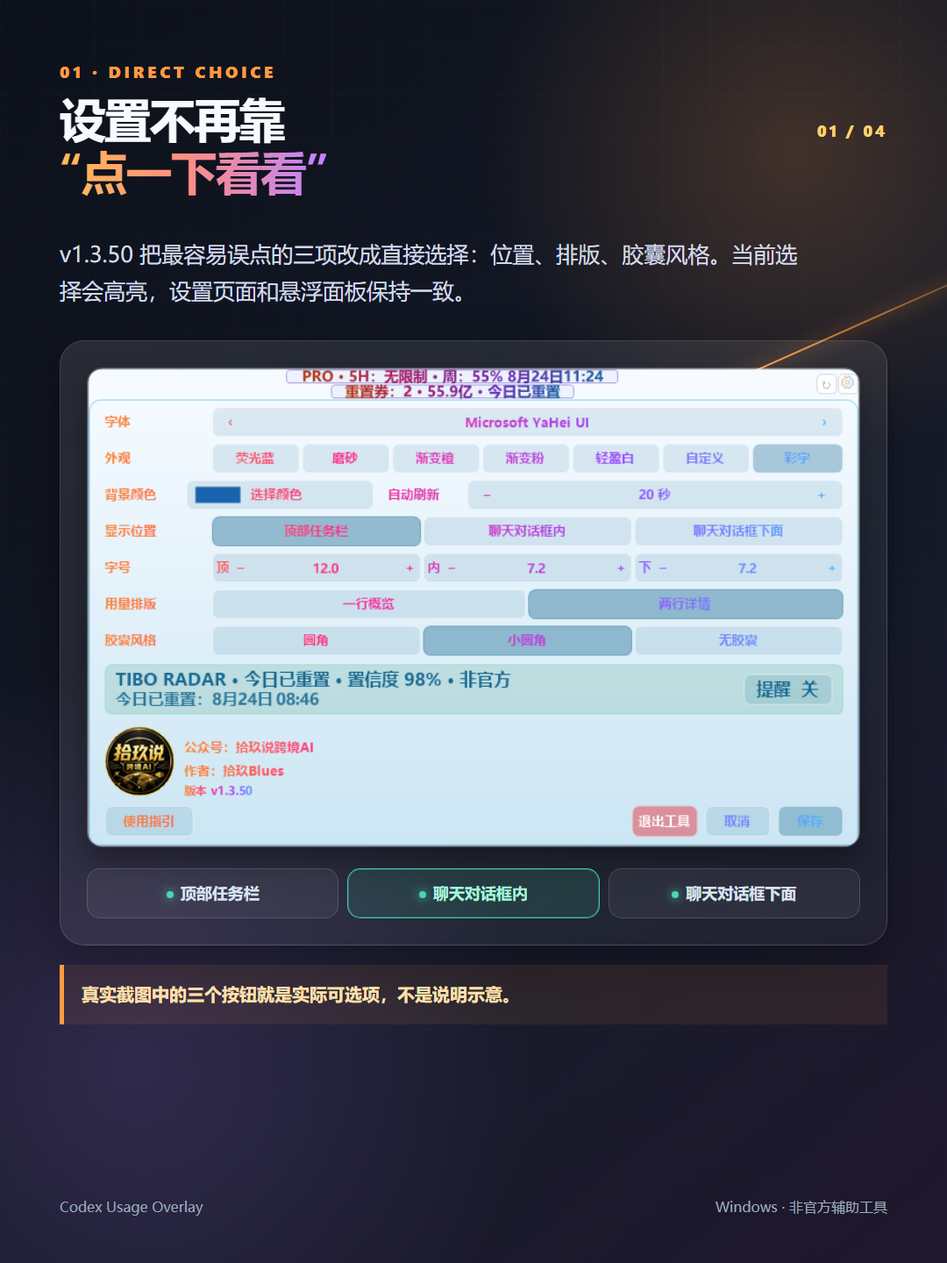
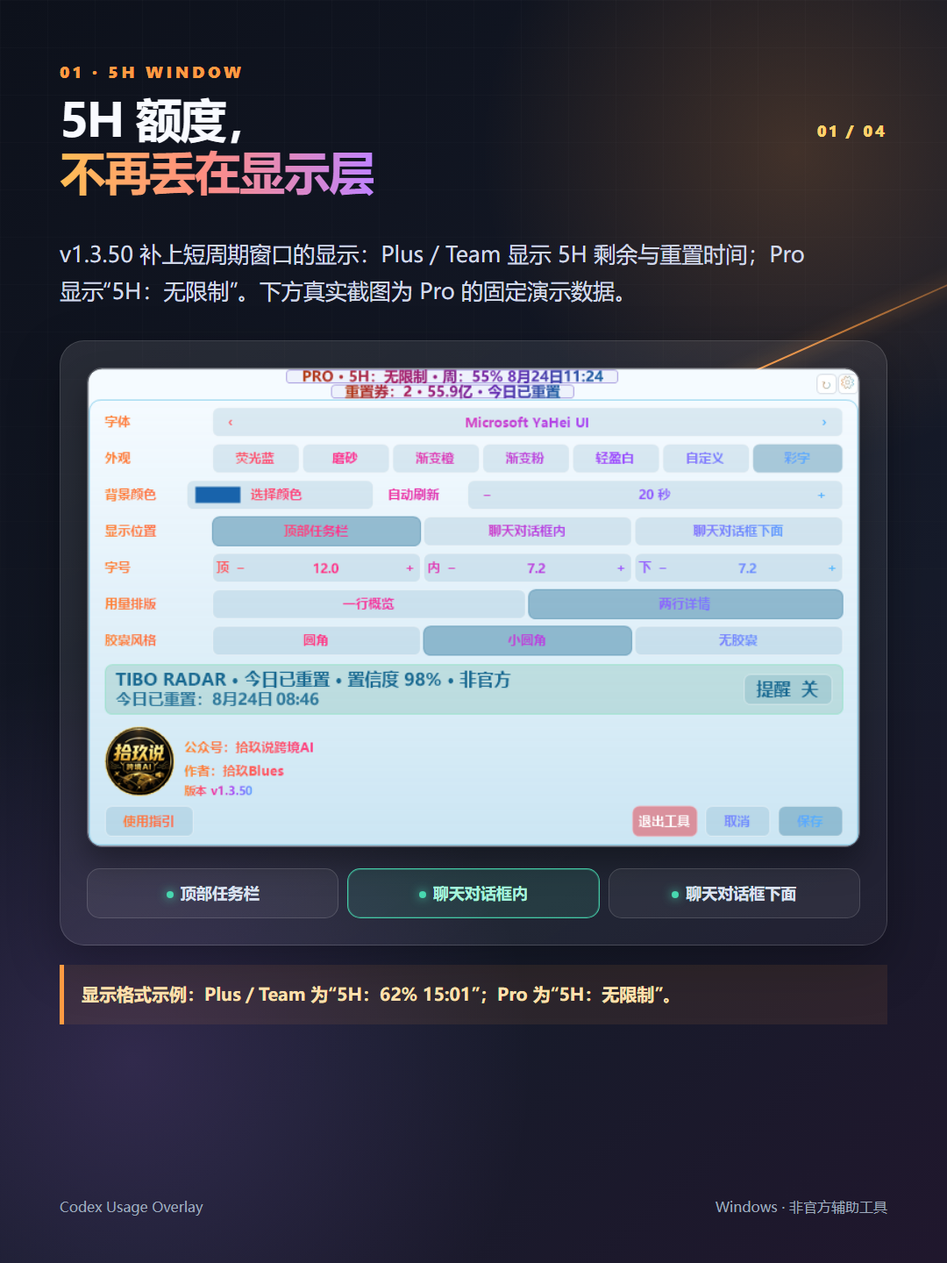
docs: focus v1.3.50 publishing on 5h quota

Changed region(s): [[0.0611, 0.1875, 0.8556, 0.25], [0.0611, 0.0312, 0.3972, 0.1562], [0.0917, 0.7812, 0.7028, 0.8125]]

diff --git a/docs/publishing/assets-src/v1.3.50-cards.html b/docs/publishing/assets-src/v1.3.50-cards.html
@@ -83,31 +83,31 @@
 </head>
 <body>
 <article class="board wide hide" data-card="wechat-cover">
-  <section class="copy"><div class="brand">拾玖说跨境AI</div><div class="kicker">CODEX USAGE OVERLAY · v1.3.50</div><h1>三处设置，<br><span class="gradient">现在直接选</span></h1><p class="sub">显示位置 · 用量排版 · 胶囊风格<br>少一次试错，少一次来回找设置。</p><div class="chip-row"><span class="chip hot">Windows</span><span class="chip">开源</span><span class="chip">真实界面截图</span></div></section>
+  <section class="copy"><div class="brand">拾玖说跨境AI</div><div class="kicker">CODEX USAGE OVERLAY · v1.3.50</div><h1>5H 额度，<br><span class="gradient">终于显示出来</span></h1><p class="sub">Plus／Team 显示剩余与重置时间<br>Pro 明确显示“5H：无限制”。</p><div class="chip-row"><span class="chip hot">Windows</span><span class="chip">设置优化</span><span class="chip">真实界面截图</span></div></section>
   <section class="scene glass"><img class="shot real-shot" src="../../images/themes/rainbow-text-expanded.png" alt="v1.3.50 设置界面真实截图"><p class="caption">当前程序导出 · 固定演示数据</p></section>
 </article>
 
 <article class="board square hide" data-card="wechat-square">
-  <div class="eyeline"><div class="brand">拾玖说跨境AI</div><span class="page">WINDOWS · v1.3.50</span></div><section class="copy"><div class="kicker">CODEX USAGE OVERLAY</div><h1>把 Codex 悬浮条的<br><span class="gradient">三处设置重做了</span></h1><p class="muted" style="margin-top:22px;font-size:25px">看见选项，直接点选，不再靠循环切换猜位置。</p></section><section class="scene glass"><img class="shot real-shot" src="../../images/themes/rainbow-text-expanded.png" alt="v1.3.50 设置界面真实截图"><p class="caption">显示位置、用量排版、胶囊风格已改为并列直选</p></section>
+  <div class="eyeline"><div class="brand">拾玖说跨境AI</div><span class="page">WINDOWS · v1.3.50</span></div><section class="copy"><div class="kicker">CODEX USAGE OVERLAY</div><h1>5H 额度显示<br><span class="gradient">终于补上了</span></h1><p class="muted" style="margin-top:22px;font-size:25px">Plus／Team 显示短周期窗口；Pro 显示“5H：无限制”。</p></section><section class="scene glass"><img class="shot real-shot" src="../../images/themes/rainbow-text-expanded.png" alt="v1.3.50 设置界面真实截图"><p class="caption">真实程序界面 · 设置同步改为并列直选</p></section>
 </article>
 
 <article class="board portrait hide" data-card="slide-01">
-  <div class="eyeline"><div><div class="kicker">01 · DIRECT CHOICE</div><h2 style="margin-top:15px">设置不再靠<br><span class="gradient">“点一下看看”</span></h2></div><span class="page">01 / 04</span></div>
-  <section class="hero-copy"><p class="lead">v1.3.50 把最容易误点的三项改成直接选择：位置、排版、胶囊风格。当前选择会高亮，设置页面和悬浮面板保持一致。</p></section>
+  <div class="eyeline"><div><div class="kicker">01 · 5H WINDOW</div><h2 style="margin-top:15px">5H 额度，<br><span class="gradient">不再丢在显示层</span></h2></div><span class="page">01 / 04</span></div>
+  <section class="hero-copy"><p class="lead">v1.3.50 补上短周期窗口的显示：Plus／Team 显示 5H 剩余与重置时间；Pro 显示“5H：无限制”。下方真实截图为 Pro 的固定演示数据。</p></section>
   <section class="hero-shot glass"><img class="shot real-shot" src="../../images/themes/rainbow-text-expanded.png" alt="v1.3.50 设置界面真实截图"><div class="position-rail"><div class="position"><span class="dot"></span>顶部任务栏</div><div class="position active"><span class="dot"></span>聊天对话框内</div><div class="position"><span class="dot"></span>聊天对话框下面</div></div></section>
-  <div class="callout">真实截图中的三个按钮就是实际可选项，不是说明示意。</div><div class="footer"><span>Codex Usage Overlay</span><span>Windows · 非官方辅助工具</span></div>
+  <div class="callout">显示格式示例：Plus／Team 为“5H：62% 15:01”；Pro 为“5H：无限制”。</div><div class="footer"><span>Codex Usage Overlay</span><span>Windows · 非官方辅助工具</span></div>
 </article>
 
 <article class="board portrait hide" data-card="slide-02">
-  <div class="eyeline"><div><div class="kicker">02 · READ AT A GLANCE</div><h2 style="margin-top:15px">一行概览，<br>两行也能看得清</h2></div><span class="page">02 / 04</span></div>
+  <div class="eyeline"><div><div class="kicker">02 · QUOTA + SETTINGS</div><h2 style="margin-top:15px">5H、周额度，<br>信息不再挤丢</h2></div><span class="page">02 / 04</span></div>
   <section class="layout-stage glass"><img class="shot real-shot" src="../../images/themes/rainbow-text-expanded.png" alt="设置界面中用量排版直选按钮"></section>
-  <section class="compare"><div class="compare-card"><b>一行概览</b><p>适合顶部任务栏：把套餐、5H／周额度、重置券、累计 Token 和雷达信号收在同一条内。</p></div><div class="compare-card"><b>两行详情</b><p>适合对话框内：空间有限时拆成两行，让 5H 与周额度仍能一眼对应。</p></div></section>
+  <section class="compare"><div class="compare-card"><b>Plus／Team</b><p>5H 剩余比例和重置时间与周额度分开显示，短周期窗口不再被最后一层文案丢掉。</p></div><div class="compare-card"><b>Pro</b><p>5H 固定显示“无限制”，不把无关的短周期重置时间混到 Pro 的主条里。</p></div></section>
   <section class="choice-grid"><div class="choice-card"><span class="symbol">1</span><b>位置直接选</b><span>顶部、对话框内、输入框下方。</span></div><div class="choice-card"><span class="symbol">2</span><b>排版直接选</b><span>一行概览或两行详情。</span></div><div class="choice-card"><span class="symbol">3</span><b>风格直接选</b><span>圆角、小圆角或无胶囊。</span></div></section>
   <div class="footer"><span>不自动缩略关键字段</span><span>固定演示数据</span></div>
 </article>
 
 <article class="board portrait hide" data-card="slide-03">
-  <div class="eyeline"><div><div class="kicker">03 · THEME SYSTEM</div><h2 style="margin-top:15px">换主题时，<br><span class="gradient">文字也要看得清</span></h2></div><span class="page">03 / 04</span></div>
+  <div class="eyeline"><div><div class="kicker">03 · SETTINGS</div><h2 style="margin-top:15px">设置优化，<br><span class="gradient">不再靠点一下猜</span></h2></div><span class="page">03 / 04</span></div>
   <section class="theme-rows"><div class="theme-row"><b>渐变彩字</b><img class="shot real-shot" src="../../images/themes/rainbow-text-collapsed.png" alt="渐变彩字主题"></div><div class="theme-row"><b>荧光蓝</b><img class="shot real-shot" src="../../images/themes/neon-blue-collapsed.png" alt="荧光蓝主题"></div><div class="theme-row"><b>无胶囊</b><img class="shot real-shot" src="../../images/themes/title-bar-text-only.png" alt="无胶囊文字模式"></div></section>
   <section class="hero-copy"><p class="lead">本次也补了浅色标题栏下“无胶囊”模式的文字对比，让套餐、额度、刷新和设置按钮不因主题变浅而看不清。</p></section>
   <div class="callout">主题只改变显示，不改变账户额度、重置时间或本机读取的数据。</div>

diff --git a/docs/publishing/wechat-v1.3.50/preview.html b/docs/publishing/wechat-v1.3.50/preview.html
@@ -3,23 +3,27 @@
 <head>
   <meta charset="utf-8">
   <meta name="viewport" content="width=device-width, initial-scale=1">
-  <title>每次点一下才知道会切到哪里？我把 Codex 悬浮条设置改成了直接选 · 黑金研究所</title>
+  <title>Codex 悬浮条更新：补上 5 小时额度，设置也重做了 · 黑金研究所</title>
 </head>
 <body style="margin:0;background-color:#EEF1F5;color:#1F2937;">
   <main style="box-sizing:border-box;width:100%;max-width:677px;margin:0 auto;padding:18px 16px 40px;background-color:#FFFFFF;">
     <p style="margin:0 0 16px;padding:8px 10px;background-color:#F5F7FA;color:#667085;font-size:13px;line-height:1.5;">本地预览 · 黑金研究所（lab-launch）</p>
     <section style="margin:0;padding:0;font-size:16px;line-height:1.85;color:#252A34;word-break:break-word;">
-<p style="margin:7px 0;font-size:16px;line-height:1.85;color:#252A34;">写 Codex 时，最烦的有时不是功能少，而是设置要靠“点一下看看”。</p>
-<p style="margin:7px 0;font-size:16px;line-height:1.85;color:#252A34;">悬浮条到底放顶部、放对话框里，还是贴在输入框下面？一行看完还是拆成两行？圆角、小圆角、无胶囊，原来都需要来回切换才能确认结果。</p>
-<p style="margin:7px 0;font-size:16px;line-height:1.85;color:#252A34;">这次 v1.3.50，我把这三处统一改成了<strong style="font-size:17px;font-weight:700;background-color:#FFF0E6;color:#7A2E00;padding:1px 4px;border-radius:3px;">看见选项，直接点选</strong>。</p>
+<p style="margin:7px 0;font-size:16px;line-height:1.85;color:#252A34;">朋友发来截图时，问题很明确：Codex 已经返回了 5 小时额度，顶部悬浮条却只显示周额度。</p>
+<p style="margin:7px 0;font-size:16px;line-height:1.85;color:#252A34;">这不是账户没额度，也不是 API 没读到，而是最后的显示层把短周期窗口丢掉了。对于 Plus／Team 用户，最关键的 5H 剩余与重置时间恰好因此看不到。</p>
+<p style="margin:7px 0;font-size:16px;line-height:1.85;color:#252A34;">这次 v1.3.50，我把这条链路补齐：<strong style="font-size:17px;font-weight:700;background-color:#FFF0E6;color:#7A2E00;padding:1px 4px;border-radius:3px;">Plus／Team 显示 5H 剩余比例和重置时间；Pro 明确显示“5H：无限制”。</strong></p>
 <p style="margin:0;padding:18px 10px;background-color:#F5F7FA;border:1px dashed #C9CED6;border-radius:8px;color:#7a8599;text-align:center;">图1：待上传</p>
-<section data-layout-role="heading" style="margin:28px 0 10px;padding:10px 12px;font-size:21px;font-weight:700;line-height:1.45;background-color:#151515;border-left:4px solid #FF8A3D;border-radius:4px;color:#FFFFFF;">这次改的不是“多一个开关”</section>
+<section data-layout-role="heading" style="margin:28px 0 10px;padding:10px 12px;font-size:21px;font-weight:700;line-height:1.45;background-color:#151515;border-left:4px solid #FF8A3D;border-radius:4px;color:#FFFFFF;">5 小时额度，按套餐正确显示</section>
+<p style="margin:7px 0;font-size:16px;line-height:1.85;color:#252A34;"><strong style="font-size:17px;font-weight:700;background-color:#FFF0E6;color:#7A2E00;padding:1px 4px;border-radius:3px;">Plus／Team</strong>　如果本机 Codex 返回短周期窗口，主条会显示类似 <code>5H：62% 15:01</code> 的剩余比例和重置时间；周额度仍按自己的周期独立展示。</p>
+<p style="margin:7px 0;font-size:16px;line-height:1.85;color:#252A34;"><strong style="font-size:17px;font-weight:700;background-color:#FFF0E6;color:#7A2E00;padding:1px 4px;border-radius:3px;">Pro</strong>　5 小时窗口不作为限制展示，因此主条固定显示 <code>5H：无限制</code>，不会再把短周期重置时间误带进来。</p>
+<p style="margin:7px 0;font-size:16px;line-height:1.85;color:#252A34;"><strong style="font-size:17px;font-weight:700;background-color:#FFF0E6;color:#7A2E00;padding:1px 4px;border-radius:3px;">Business／其他工作区</strong>　当本机 Codex 没有返回额度窗口时，工具不会凭空补出百分比；仍以本机返回结果为准。</p>
+<section data-layout-role="heading" style="margin:28px 0 10px;padding:10px 12px;font-size:21px;font-weight:700;line-height:1.45;background-color:#151515;border-left:4px solid #FF8A3D;border-radius:4px;color:#FFFFFF;">设置也不再靠“点一下看看”</section>
 <p style="margin:7px 0;font-size:16px;line-height:1.85;color:#252A34;"><strong style="font-size:17px;font-weight:700;background-color:#FFF0E6;color:#7A2E00;padding:1px 4px;border-radius:3px;">显示位置</strong>　顶部任务栏、聊天对话框内、聊天对话框下面，三个按钮并列展示，当前选择会高亮。切换后不会覆盖到另一个位置。</p>
 <p style="margin:7px 0;font-size:16px;line-height:1.85;color:#252A34;"><strong style="font-size:17px;font-weight:700;background-color:#FFF0E6;color:#7A2E00;padding:1px 4px;border-radius:3px;">用量排版</strong>　一行概览适合顶部任务栏；两行详情适合输入框附近。需要时把 5H、周额度、重置券和累计 Token 拆开看，不需要再靠猜测切换结果。</p>
 <p style="margin:7px 0;font-size:16px;line-height:1.85;color:#252A34;"><strong style="font-size:17px;font-weight:700;background-color:#FFF0E6;color:#7A2E00;padding:1px 4px;border-radius:3px;">胶囊风格</strong>　圆角、小圆角矩形、无胶囊三个样式同样直接选择。设置面板与悬浮设置页保持相同的交互，不用记住“再点一次会切到哪里”。</p>
 <p style="margin:0;padding:18px 10px;background-color:#F5F7FA;border:1px dashed #C9CED6;border-radius:8px;color:#7a8599;text-align:center;">图2：待上传</p>
 <section data-layout-role="heading" style="margin:28px 0 10px;padding:10px 12px;font-size:21px;font-weight:700;line-height:1.45;background-color:#151515;border-left:4px solid #FF8A3D;border-radius:4px;color:#FFFFFF;">无胶囊，不等于看不清</section>
-<p style="margin:7px 0;font-size:16px;line-height:1.85;color:#252A34;">这轮也修了一个很实际的问题：在浅色标题栏里，无胶囊文字以前可能显得太淡。</p>
+<p style="margin:7px 0;font-size:16px;line-height:1.85;color:#252A34;">显示逻辑补齐后，设置体验也顺手收拾了一遍：在浅色标题栏里，无胶囊文字以前可能显得太淡。</p>
 <p style="margin:7px 0;font-size:16px;line-height:1.85;color:#252A34;">现在无胶囊模式会使用跟随主题但保持足够对比的文字颜色；套餐、额度、雷达状态、刷新与设置按钮都应该清楚可辨。这里的主题只影响显示，不会改变本机读取的额度、重置时间或累计 Token。</p>
 <p style="margin:0;padding:18px 10px;background-color:#F5F7FA;border:1px dashed #C9CED6;border-radius:8px;color:#7a8599;text-align:center;">图3：待上传</p>
 <section data-layout-role="heading" style="margin:28px 0 10px;padding:10px 12px;font-size:21px;font-weight:700;line-height:1.45;background-color:#151515;border-left:4px solid #FF8A3D;border-radius:4px;color:#FFFFFF;">它能做什么，不能做什么</section>

diff --git a/docs/publishing/wechat-v1.3.50/preview-local.html b/docs/publishing/wechat-v1.3.50/preview-local.html
@@ -3,7 +3,7 @@
 <head>
 <meta charset="utf-8">
 <meta name="viewport" content="width=device-width, initial-scale=1">
-<title>每次点一下才知道会切到哪里？我把 Codex 悬浮条设置改成了直接选</title>
+<title>Codex 悬浮条更新：补上 5 小时额度，设置也重做了</title>
 <style>
   * { box-sizing:border-box; }
   body { margin:0; background:#eef1f5; color:#252a34; font-family:"Microsoft YaHei UI","Microsoft YaHei",sans-serif; }
@@ -25,19 +25,23 @@
 <body>
 <main>
   <p class="meta">本地图片预览 · 黑金研究所（lab-launch） · 尚未保存到公众号草稿</p>
-  <h1 class="title">每次点一下才知道会切到哪里？我把 Codex 悬浮条设置改成了直接选</h1>
-  <p class="lead">v1.3.50 把显示位置、用量排版和胶囊风格改为直接选择；无胶囊模式也补了浅色标题栏的文字对比。</p>
-  <p>写 Codex 时，最烦的有时不是功能少，而是设置要靠“点一下看看”。</p>
-  <p>悬浮条到底放顶部、放对话框里，还是贴在输入框下面？一行看完还是拆成两行？圆角、小圆角、无胶囊，原来都需要来回切换才能确认结果。</p>
-  <p>这次 v1.3.50，我把这三处统一改成了<strong>看见选项，直接点选</strong>。</p>
-  <figure><img src="assets/01-direct-choice-1080x1440.png" alt="v1.3.50 设置界面真实截图"><figcaption>图 1 · 当前程序导出截图，数值为固定演示数据</figcaption></figure>
-  <h2>这次改的不是“多一个开关”</h2>
+  <h1 class="title">Codex 悬浮条更新：补上 5 小时额度，设置也重做了</h1>
+  <p class="lead">v1.3.50 补上了 5 小时额度显示：Plus／Team 显示剩余比例与重置时间，Pro 明确显示“5H：无限制”；设置也改成直接选择。</p>
+  <p>朋友发来截图时，5 小时额度已经被 Codex 读到了，顶部悬浮条却只显示周额度。</p>
+  <p>问题不在账户，也不在 API，而是最后的显示层把短周期窗口丢掉了。对于 Plus／Team 用户，关键的 5H 剩余与重置时间恰好因此看不到。</p>
+  <p>这次 v1.3.50，我把这条链路补齐：<strong>Plus／Team 显示 5H 剩余比例和重置时间；Pro 显示“5H：无限制”。</strong></p>
+  <figure><img src="assets/01-direct-choice-1080x1440.png" alt="v1.3.50 设置界面真实截图"><figcaption>图 1 · 当前程序导出截图，顶部可见 Pro 的“5H：无限制”</figcaption></figure>
+  <h2>5 小时额度，按套餐正确显示</h2>
+  <p><strong>Plus／Team</strong>　本机 Codex 返回短周期窗口时，主条会显示类似 `5H：62% 15:01` 的剩余比例和重置时间；周额度仍独立展示。</p>
+  <p><strong>Pro</strong>　5 小时窗口不作为限制展示，因此主条固定显示 `5H：无限制`，不会再把短周期重置时间误带进来。</p>
+  <p><strong>Business／其他工作区</strong>　本机没有返回额度窗口时，工具不会凭空补出百分比，仍以本机返回结果为准。</p>
+  <h2>设置也不再靠“点一下看看”</h2>
   <p><strong>显示位置</strong>　顶部任务栏、聊天对话框内、聊天对话框下面，三个按钮并列展示，当前选择会高亮。</p>
   <p><strong>用量排版</strong>　一行概览适合顶部任务栏；两行详情适合输入框附近。需要时把 5H、周额度、重置券和累计 Token 拆开看。</p>
   <p><strong>胶囊风格</strong>　圆角、小圆角矩形、无胶囊三个样式同样直接选择。设置面板与悬浮设置页保持相同的交互。</p>
-  <figure><img src="assets/02-layouts-1080x1440.png" alt="位置、排版与胶囊风格说明图"><figcaption>图 2 · 一行概览、两行详情和三项直接选择</figcaption></figure>
+  <figure><img src="assets/02-layouts-1080x1440.png" alt="5H、周额度与三项直接选择说明图"><figcaption>图 2 · 5H、周额度与三项直接选择</figcaption></figure>
   <h2>无胶囊，不等于看不清</h2>
-  <p>这轮也修了一个很实际的问题：在浅色标题栏里，无胶囊文字以前可能显得太淡。</p>
+  <p>显示逻辑补齐后，设置体验也顺手收拾了一遍：在浅色标题栏里，无胶囊文字以前可能显得太淡。</p>
   <p>现在无胶囊模式会使用跟随主题但保持足够对比的文字颜色；套餐、额度、雷达状态、刷新与设置按钮都应该清楚可辨。这里的主题只影响显示，不会改变本机读取的数据。</p>
   <figure><img src="assets/03-theme-contrast-1080x1440.png" alt="主题与无胶囊文字对比截图"><figcaption>图 3 · 当前程序导出截图</figcaption></figure>
   <h2>它能做什么，不能做什么</h2>

diff --git a/docs/publishing/wechat-v1.3.50/article.md b/docs/publishing/wechat-v1.3.50/article.md
@@ -5,8 +5,8 @@
 - 公众号：拾玖说跨境AI
 - 作者：拾玖Blues
 - 目标读者：在 Windows 桌面端使用 Codex、希望随时看清用量信息的用户
-- 文章目标：让读者知道 v1.3.50 把三类设置改成了直接选择，并了解工具的真实数据边界
-- 核心承诺：不用再靠反复点击猜设置会切到哪里
+- 文章目标：让读者知道 v1.3.50 已补上 5 小时额度显示，并了解套餐差异与设置优化
+- 核心承诺：Plus／Team 的 5 小时额度不再只被读到却看不到，Pro 也会明确显示“5H：无限制”
 - 正文排版：lab-launch
 - 排版理由：这是一次明确的工具版本更新，首屏先交付变化，再用真实界面截图和边界说明兑现
 - 发布日期：待确认
@@ -14,27 +14,35 @@
 
 ## 标题
 
-1. 结果型：Codex 悬浮条更新：三处设置终于能直接选了
-2. 痛点型：每次点一下才知道会切到哪里？我把 Codex 悬浮条设置改成了直接选
-3. 经历型：这个 Codex 悬浮条，我又把三个最容易误点的设置重做了
+1. 结果型：Codex 悬浮条更新：补上 5 小时额度，设置也重做了
+2. 痛点型：Plus／Team 的 5 小时额度总是看不到？这次终于补上了
+3. 经历型：为了让 5 小时额度不再丢，我把 Codex 悬浮条设置重新做了一遍
 
-推荐标题：**每次点一下才知道会切到哪里？我把 Codex 悬浮条设置改成了直接选**
+推荐标题：**Codex 悬浮条更新：补上 5 小时额度，设置也重做了**
 
 ## 摘要
 
-v1.3.50 把 Codex Usage Overlay 的显示位置、用量排版和胶囊风格改为直接选择；无胶囊模式也补了浅色标题栏的文字对比。工具只读取和展示本机 Codex 返回的数据，不会增加或主动重置额度。
+v1.3.50 补上了 Codex 的 5 小时额度显示：Plus／Team 显示剩余比例与重置时间，Pro 明确显示“5H：无限制”。同时，显示位置、用量排版和胶囊风格改为直接选择。
 
 ## 正文
 
-写 Codex 时，最烦的有时不是功能少，而是设置要靠“点一下看看”。
+朋友发来截图时，问题很明确：Codex 已经返回了 5 小时额度，顶部悬浮条却只显示周额度。
 
-悬浮条到底放顶部、放对话框里，还是贴在输入框下面？一行看完还是拆成两行？圆角、小圆角、无胶囊，原来都需要来回切换才能确认结果。
+这不是账户没额度，也不是 API 没读到，而是最后的显示层把短周期窗口丢掉了。对于 Plus／Team 用户，最关键的 5H 剩余与重置时间恰好因此看不到。
 
-这次 v1.3.50，我把这三处统一改成了**看见选项，直接点选**。
+这次 v1.3.50，我把这条链路补齐：**Plus／Team 显示 5H 剩余比例和重置时间；Pro 明确显示“5H：无限制”。**
 
-[图1：v1.3.50 设置界面真实截图，三个显示位置并列直选]
+[图1：v1.3.50 设置界面真实截图，顶部可见 Pro 的“5H：无限制”]
 
-## 这次改的不是“多一个开关”
+## 5 小时额度，按套餐正确显示
+
+**Plus／Team**　如果本机 Codex 返回短周期窗口，主条会显示类似 `5H：62% 15:01` 的剩余比例和重置时间；周额度仍按自己的周期独立展示。
+
+**Pro**　5 小时窗口不作为限制展示，因此主条固定显示 `5H：无限制`，不会再把短周期重置时间误带进来。
+
+**Business／其他工作区**　当本机 Codex 没有返回额度窗口时，工具不会凭空补出百分比；仍以本机返回结果为准。
+
+## 设置也不再靠“点一下看看”
 
 **显示位置**　顶部任务栏、聊天对话框内、聊天对话框下面，三个按钮并列展示，当前选择会高亮。切换后不会覆盖到另一个位置。
 
@@ -42,11 +50,11 @@ v1.3.50 把 Codex Usage Overlay 的显示位置、用量排版和胶囊风格改
 
 **胶囊风格**　圆角、小圆角矩形、无胶囊三个样式同样直接选择。设置面板与悬浮设置页保持相同的交互，不用记住“再点一次会切到哪里”。
 
-[图2：一行概览、两行详情和三项直接选择的说明图]
+[图2：5H、周额度与三项直接选择的说明图]
 
 ## 无胶囊，不等于看不清
 
-这轮也修了一个很实际的问题：在浅色标题栏里，无胶囊文字以前可能显得太淡。
+显示逻辑补齐后，设置体验也顺手收拾了一遍：在浅色标题栏里，无胶囊文字以前可能显得太淡。
 
 现在无胶囊模式会使用跟随主题但保持足够对比的文字颜色；套餐、额度、雷达状态、刷新与设置按钮都应该清楚可辨。这里的主题只影响显示，不会改变本机读取的额度、重置时间或累计 Token。
 
@@ -85,8 +93,8 @@ https://github.com/ivan51769/CodexUsageOverlay/releases/tag/v1.3.50
 
 ## 封面
 
-- 核心文案：三处设置，现在直接选
-- 视觉主体：v1.3.50 设置页面真实截图
+- 核心文案：5 小时额度，终于显示出来
+- 视觉主体：v1.3.50 设置页面真实截图与“5H：无限制”真实显示
 - 风格与颜色：深炭黑、暖金橙、少量紫色；黑金研究所风格
 - 与正文信息图的关联：封面与四张正文图均使用同一条“直接选择”轨道语言
 - 安全区域：标题与截图主体均置于中央安全区

diff --git a/docs/publishing/xiaohongshu/post-v1.3.50.md b/docs/publishing/xiaohongshu/post-v1.3.50.md
@@ -12,15 +12,15 @@
 
 ## 最终标题
 
-Codex悬浮条：3处设置直接选
+Codex更新：5小时额度显示
 
 ## 正文
 
-写 Codex 时，我最烦的不是功能少，是设置得靠“点一下看看”。
+朋友发来截图时，5 小时额度已经被 Codex 读到了，顶部悬浮条却只显示周额度。
 
-到底放在哪、显示一行还是两行、胶囊长什么样，切完还得重新找回原来的状态。
+这次 v1.3.50 先把这个显示层问题补上：Plus／Team 会显示 5H 剩余与重置时间；Pro 会明确显示“5H：无限制”。
 
-这次 v1.3.50，我把三处都改成了看得见、直接点：
+同时，我把最常切换的设置也改成了看得见、直接点：
 
 1、显示位置：顶部任务栏／聊天对话框内／聊天对话框下面。
 
@@ -28,7 +28,7 @@ Codex悬浮条：3处设置直接选
 
 3、胶囊风格：圆角／小圆角／无胶囊。
 
-顺手也补了浅色标题栏里无胶囊模式的文字对比，主题切浅了，额度、刷新和设置按钮也不该糊成一团。
+顺手也补了浅色标题栏里无胶囊模式的文字对比，主题切浅了，5H、周额度、刷新和设置按钮也不该糊成一团。
 
 边界还是要说清楚：它只读取并展示本机 Codex 返回的用量。Tibo Radar 是公开、非官方信号，不代表你的账号一定同步到账；工具不能增加额度、绕过限制或主动触发重置。
 
@@ -42,11 +42,11 @@ Windows 10/11 可用，项目按 AGPL-3.0 开源。安装包、SHA-256 和源码
 
 ## 轮播顺序
 
-### 1. 封面｜三处设置，现在直接选
+### 1. 封面｜5 小时额度，终于显示出来
 
 ![封面](assets-v1.3.50/01-cover-1080x1440.png)
 
-### 2. 直接选择｜位置、排版和胶囊风格
+### 2. 额度与设置｜5H、周额度和三项直接选择
 
 ![直接选择](assets-v1.3.50/02-direct-choice-1080x1440.png)
 
